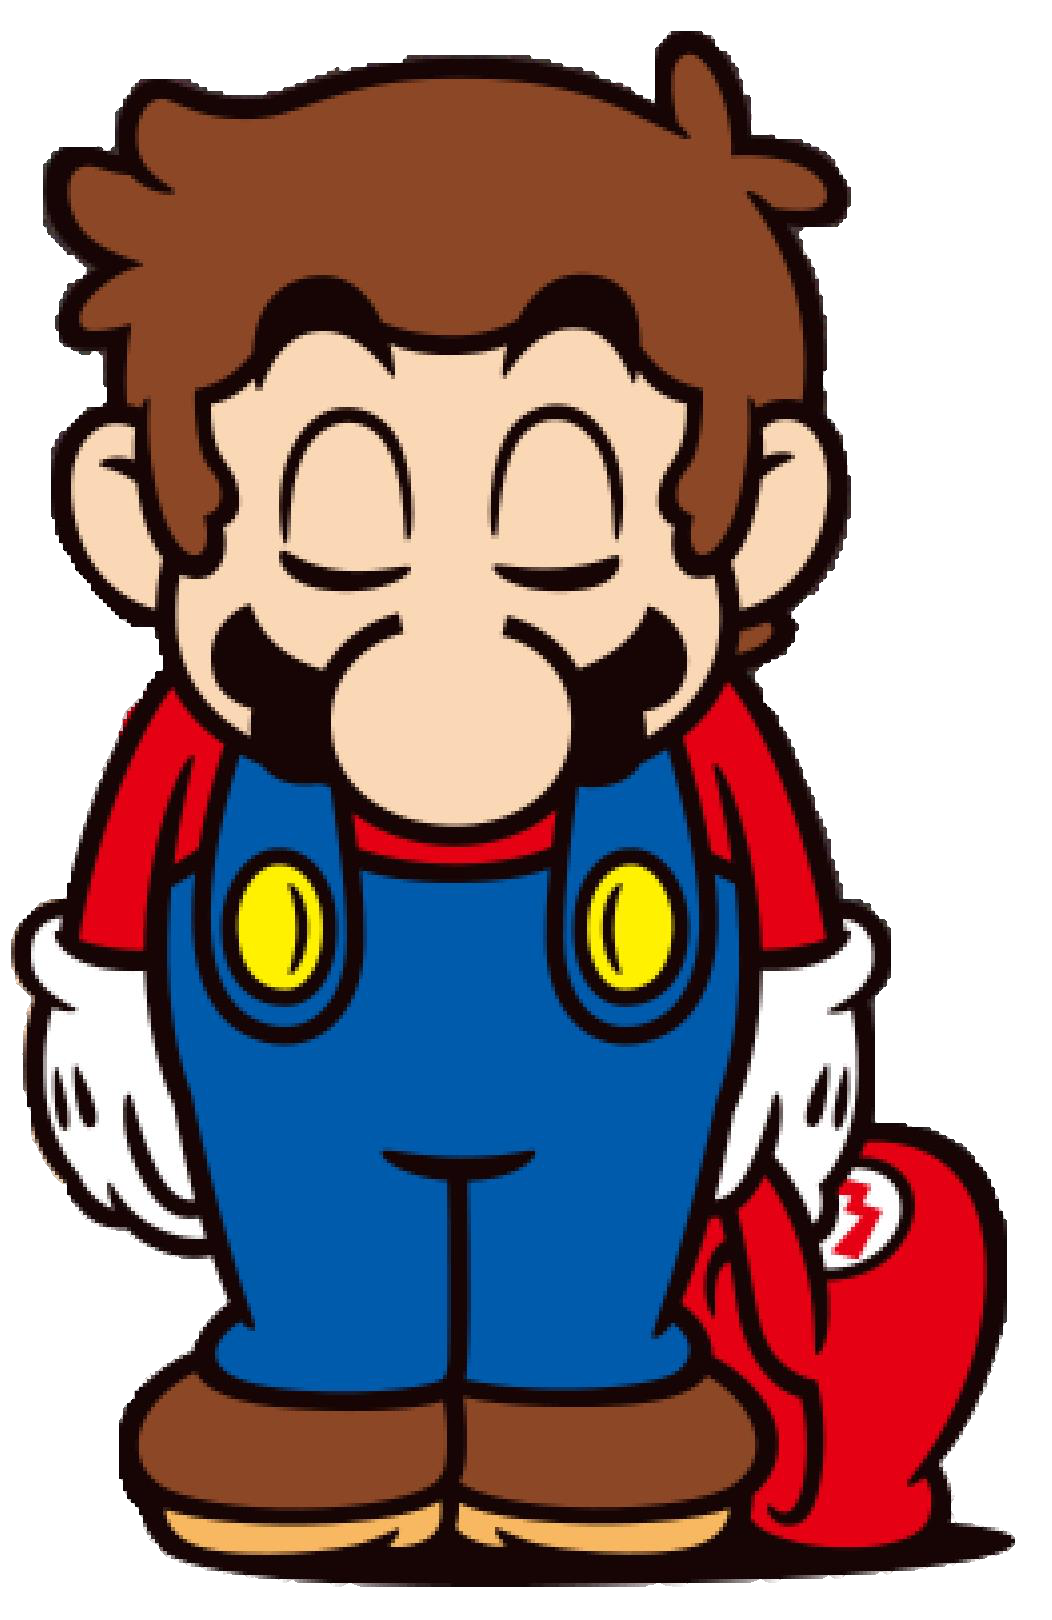
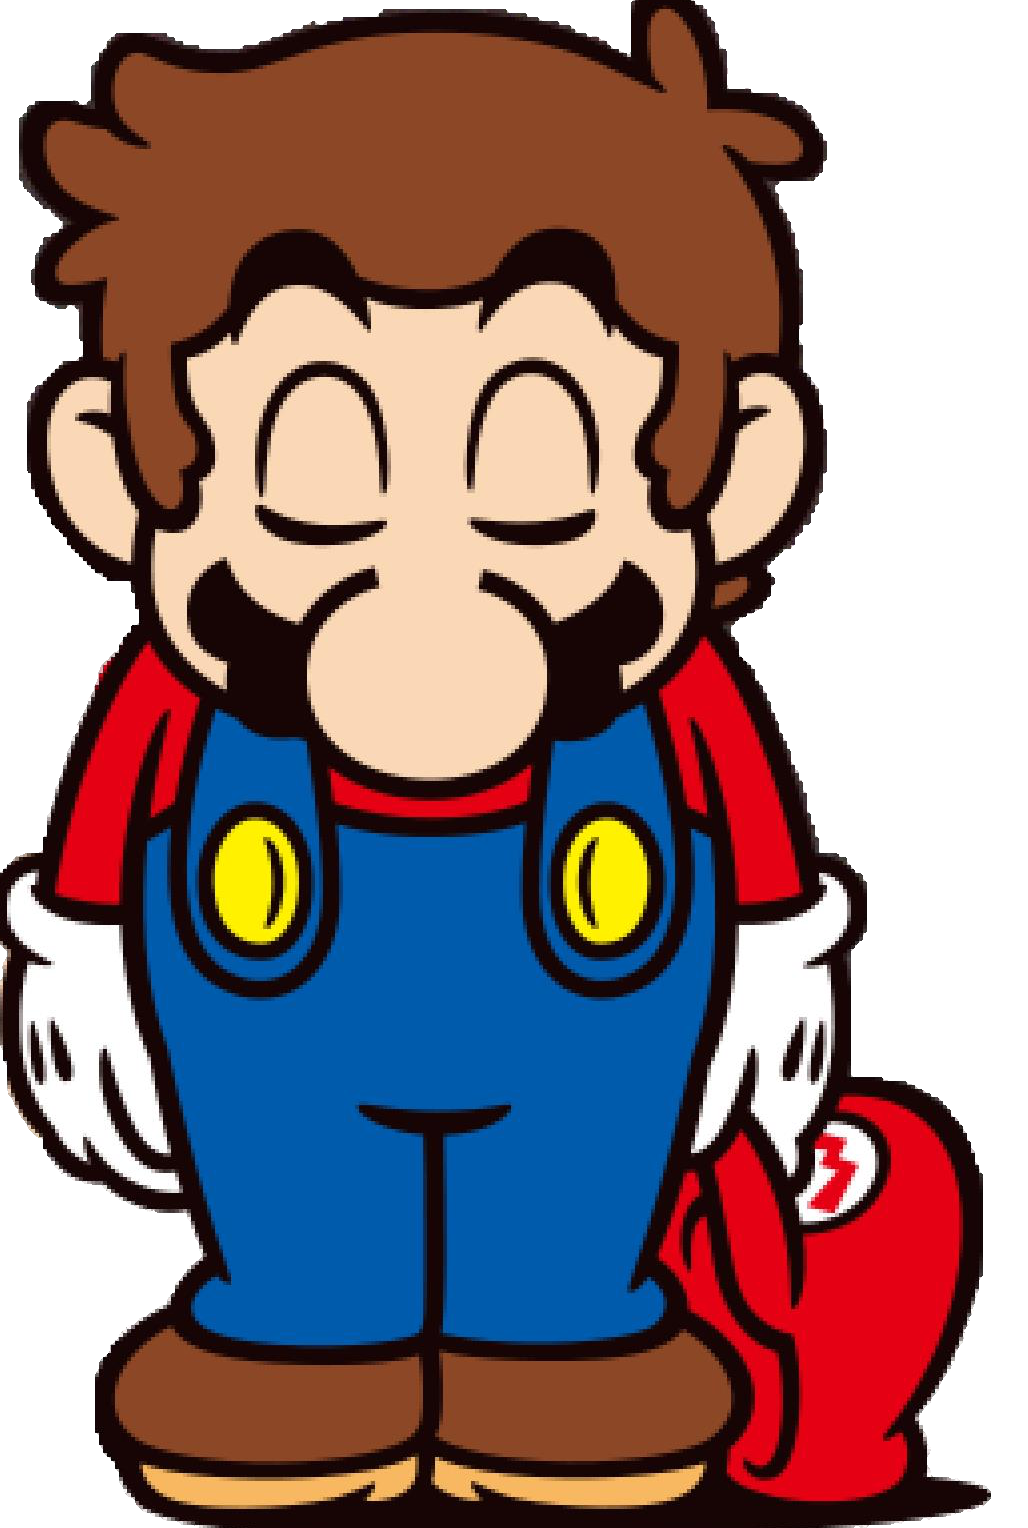
Atualização Mario Jump
Atualização do Jogo Mario Jump.

diff --git a/matioJump/js/script.js b/matioJump/js/script.js
@@ -3,10 +3,9 @@ const tubo = document.querySelector('.tubo');
 
 const pulo = () => {
 	mario.classList.add('pulo');
-	setTimeout(() => {
-		
-		mario.classList.remove('pulo');
 	
+	setTimeout(() => {		
+		mario.classList.remove('pulo');	
 	}, 500);
 }
 
@@ -19,12 +18,21 @@ const marioPosition = +window.getComputedStyle(mario).bottom.replace('px', '');
 		
 		tubo.style.animation = 'none';
 		tubo.style.left = '${tuboPosition}px';
+		tubo.style.margin = '0 0 0 80px';
 
 		mario.style.animation = 'none';
 		mario.style.bottom = '${marioPosition}px';
 
 		mario.src = './imagens/game-over.PNG';
-		mario.style.width = '75px'
+		mario.style.width = '75px';
+		mario.style.marginLeft = '10px';
+		
+		//Foi usado para teste apenas...
+		
+		/*
+		alert("Game over.");
+		document.location.reload();
+		clearInterval(interval);*/
 	
 	}
 

diff --git a/matioJump/css/style.css b/matioJump/css/style.css
@@ -14,12 +14,12 @@
 }
 .tubo{
 	position: absolute;
-	bottom: 0px;
+	bottom: 0;
 	width: 80px;
 	animation: tubo-animation 1.5s infinite linear;
 }
 .mario{
-	width: 120px;
+	width: 150px;
 	position: absolute;
 	bottom: 0px;
 }
@@ -32,8 +32,13 @@
 	animation: nuvem-animation 20s infinite linear;
 }
 .container{
-	width: 80%;
+	width: 100%;
 	height: 50%;
+}
+.sol{
+	width: 300px;
+	float: right;
+	
 }
 p{
 	font-size: 50pt;
@@ -52,7 +57,7 @@ p{
 }
 @keyframes pulo{
 	0%{
-		bottom: 0px;
+	bottom: 0px;
 	}
 	40%{
 	bottom: 180px;

diff --git a/matioJump/index.html b/matioJump/index.html
@@ -11,11 +11,12 @@
 </head>
 	<body>
 		<div class="container">
-			<b><p>Mario Jump</p></b>
+			<b><p>"Mario Jump!"</p></b>
 			<div class="game-board">
-		
+				
+				<img src="./imagens/sol.gif" class="sol">
 				<img src="./imagens/nuvem.PNG" class="nuvem">
-				<img src="./imagens/mario-gif.gif" class="mario">
+				<img src="./imagens/mario correndo.gif" class="mario">
 				<img src="./imagens/tubo.PNG" class="tubo">
 
 			</div>
